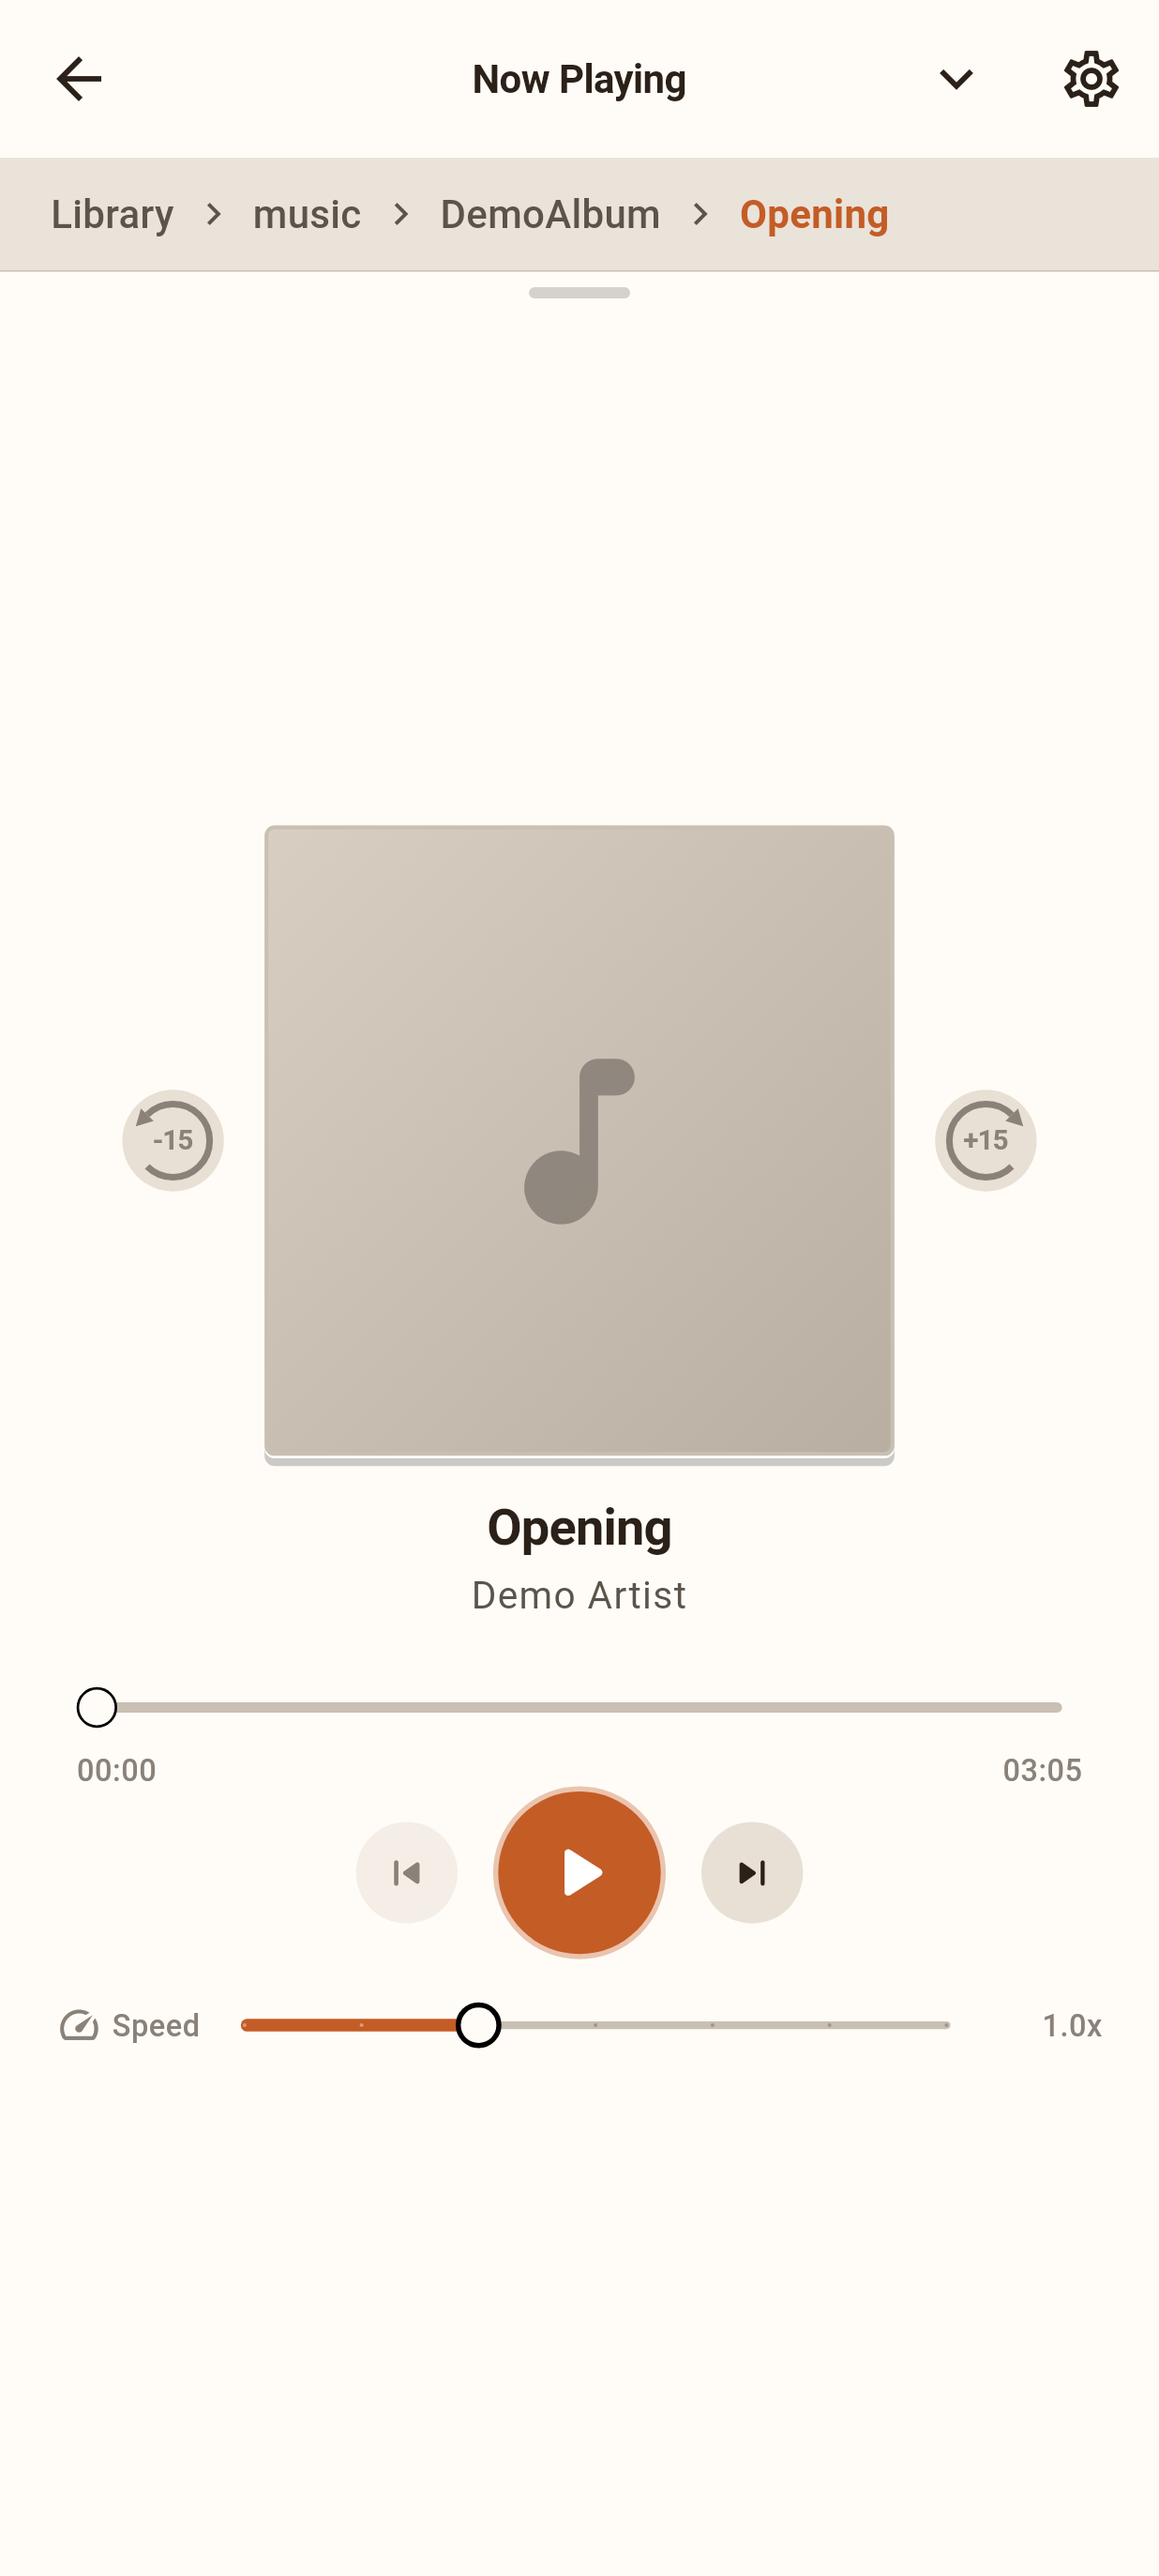
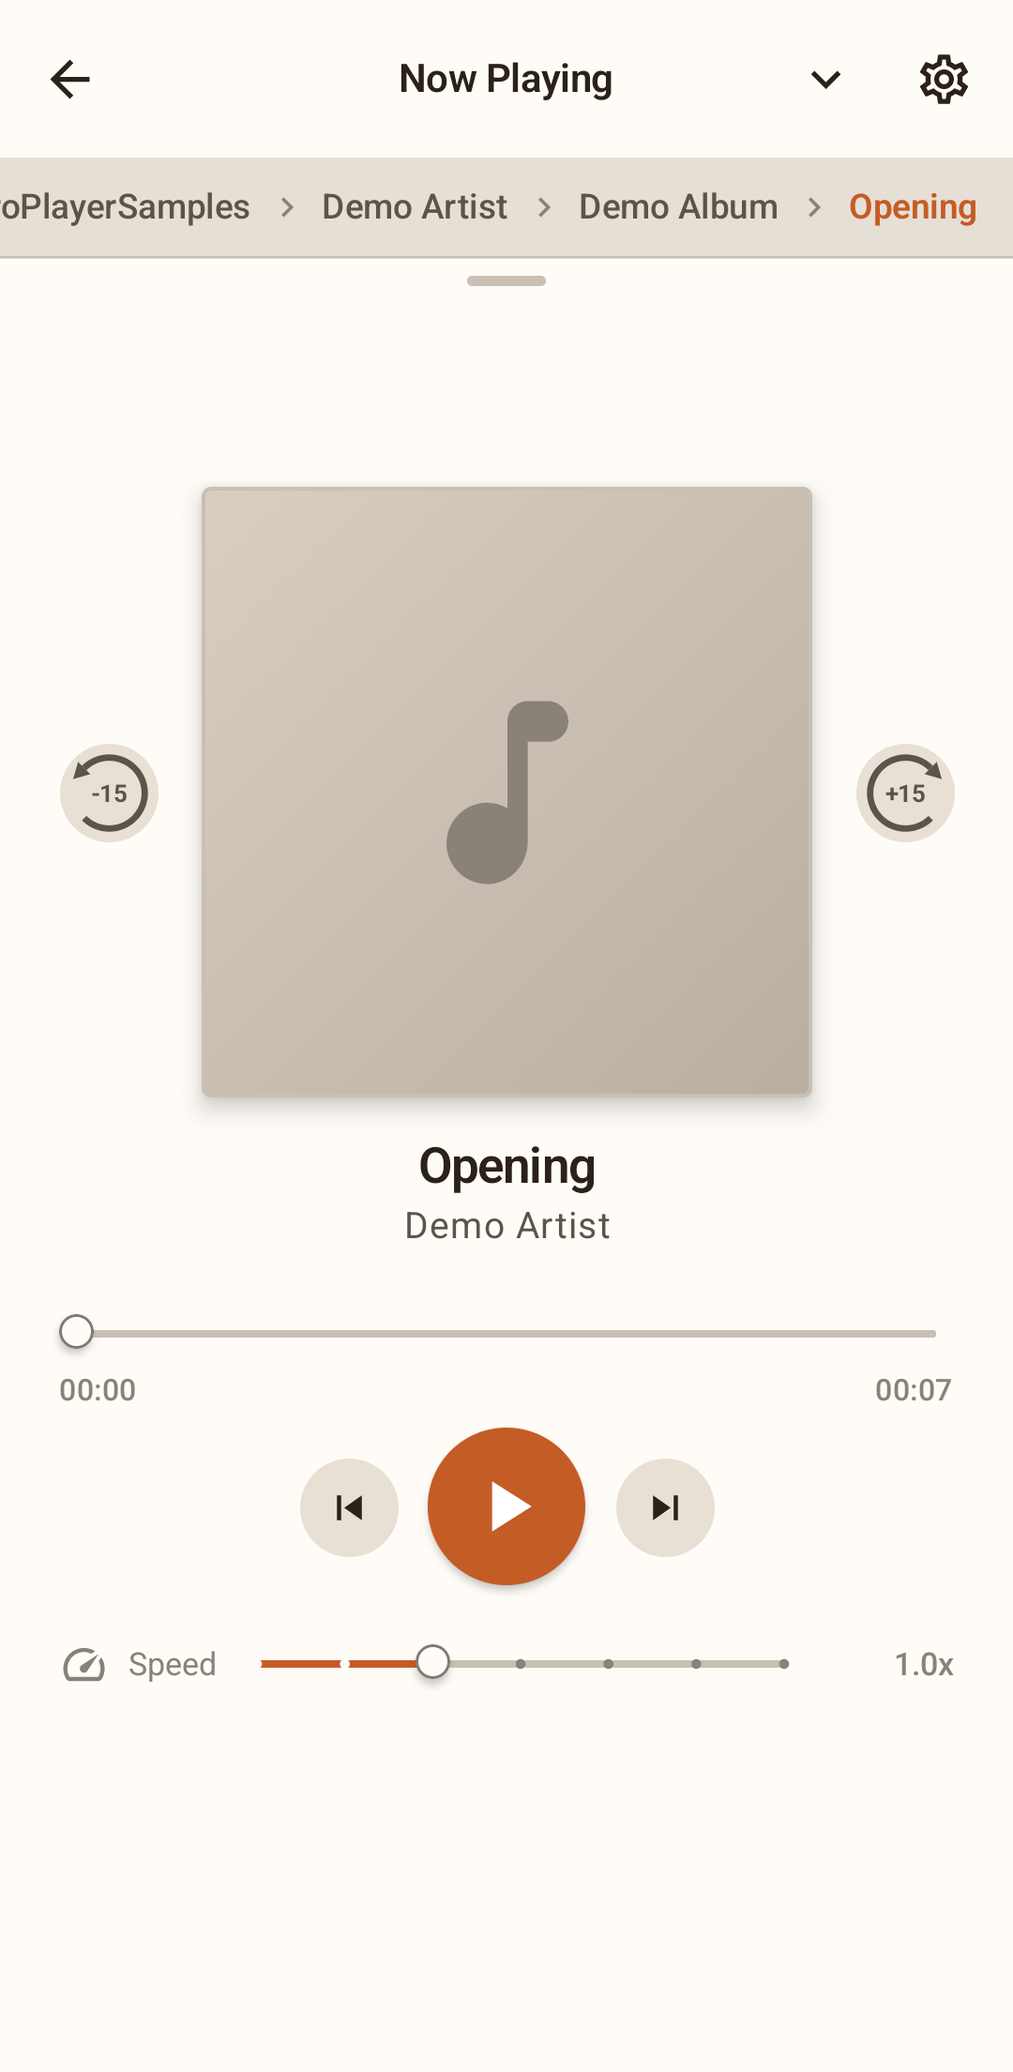
docs: user-guide screenshots from the native app
doc/images/tutorial/01..06 re-captured on the emulator (light mode, sample
audio plus Demo Mix.m3u, system bars cropped); the folder README lists the
steps. AGENTS.md and PLAN.md note where the Flutter captures went.

No code changes; no tests added.

Changed region(s): [[0.0611, 0.2187, 0.9472, 0.8121], [0.0, 0.0, 1.0, 0.1562], [0.8861, 0.7809, 0.9472, 0.8121]]

diff --git a/doc/images/tutorial/README.md b/doc/images/tutorial/README.md
@@ -1,26 +1,39 @@
 # Tutorial screenshots
 
-PNG files referenced from [`doc/USAGE.md`](../../USAGE.md):
+PNG files referenced from [`doc/USAGE.md`](../../USAGE.md), captured from the
+native Android app ([`android-native/`](../../../android-native/README.md)) on
+an emulator in light mode, with the system bars cropped off:
 
 | File | Scene |
 |------|--------|
-| `01-library.png` | Library with at least one folder/album |
-| `02-mini-player.png` | Collapsed mini player while playing |
-| `03-expanded-player.png` | Expanded player sheet |
-| `04-album-detail.png` | Album track list |
-| `05-playlist.png` | Playlist track list |
+| `01-library.png` | Library root with the `RetroPlayerSamples` source |
+| `02-mini-player.png` | Library root with the collapsed mini player (Demo Album, paused) |
+| `03-expanded-player.png` | Expanded player sheet ("Opening" from Demo Album) |
+| `04-album-detail.png` | Demo Album track list |
+| `05-playlist.png` | `Demo Mix.m3u`, a playlist the app did not create (read-only) |
 | `06-settings.png` | Settings overview |
 
-**Recommended (real device / emulator, store-ready):**
+## Re-capture
 
-```bash
-./scripts/capture-tutorial-screenshots-adb.sh
-```
+1. Push the sample audio
+   ([`scripts/push-sample-audio-to-emulator.sh`](../../../scripts/push-sample-audio-to-emulator.sh))
+   and a playlist next to it:
 
-**Quick draft (widget test, readable text but not pixel-perfect):**
+   ```bash
+   printf '#EXTM3U\nDemo Artist/Demo Album/01-opening.mp3\nDemo Artist/Demo Album/03-finale.mp3\n' > /tmp/demo-mix.m3u
+   adb push /tmp/demo-mix.m3u "/sdcard/Music/RetroPlayerSamples/Demo Mix.m3u"
+   ```
 
-```bash
-./scripts/capture-tutorial-screenshots.sh
-```
+2. `adb shell cmd uimode night no`, install a fresh build
+   (`android-native/scripts/install-test-build.sh`), add `Music/RetroPlayerSamples`
+   through **Add folder**.
+3. Take each screen with `android-native/scripts/ui.sh shot <file>` and crop the
+   status and navigation bars (on a 1080 × 2400 emulator: rows 128 to 2337).
+   For 02 and 03, play Demo Album, pause, and press previous so the time shows
+   00:00.
 
-Requires sample audio on the emulator ([`scripts/push-sample-audio-to-emulator.sh`](../../scripts/push-sample-audio-to-emulator.sh)). Commit PNGs after review for stable GitHub rendering in USAGE.md.
+The Flutter app has its own capture scripts
+([`scripts/capture-tutorial-screenshots-adb.sh`](../../../scripts/capture-tutorial-screenshots-adb.sh),
+[`scripts/capture-tutorial-screenshots.sh`](../../../scripts/capture-tutorial-screenshots.sh));
+both apps look the same on these screens. Commit PNGs after review for stable
+GitHub rendering in USAGE.md.

diff --git a/android-native/PLAN.md b/android-native/PLAN.md
@@ -1036,9 +1036,10 @@ available, simply continue top to bottom.
   "Native Android app" section, save-playlist and ±15 s rows corrected for
   both apps, two broken `lib/` links in REQUIREMENTS fixed. Relative links
   checked by script (only the planned `MANUAL_TESTING.md` is missing).
-  Not done: re-capturing `doc/images/tutorial/` from the native app; those
-  images are the Flutter look reference in AGENTS.md, so replacing them
-  waits for a user decision.
+  User-guide screenshots `doc/images/tutorial/01..06` re-captured from the
+  native app (user decision; emulator, light, sample audio plus a
+  `Demo Mix.m3u`, system bars cropped); steps in that folder's README. The
+  Flutter captures stay in git history.
 
 ## T22 Final release check
 

diff --git a/android-native/AGENTS.md b/android-native/AGENTS.md
@@ -176,7 +176,8 @@ and are available to other modules via `testImplementation(testFixtures(project(
 
 Reference screenshots: [doc/images/tutorial/](../doc/images/tutorial/)
 (`01-library`, `02-mini-player`, `03-expanded-player`, `04-album-detail`,
-`05-playlist`, `06-settings`). Flutter sources of truth:
+`05-playlist`, `06-settings`; captured from this app after the T20 comparison
+with the Flutter versions, see git history before T21 for those). Flutter sources of truth:
 `lib/ui/core/theme.dart`, `lib/ui/core/retro/*`, `lib/ui/core/widgets/retro_list_tile.dart`.
 Every UI task ends with a side-by-side check against the matching screenshot
 in light mode AND a dark-mode screenshot (`adb shell cmd uimode night yes`,
